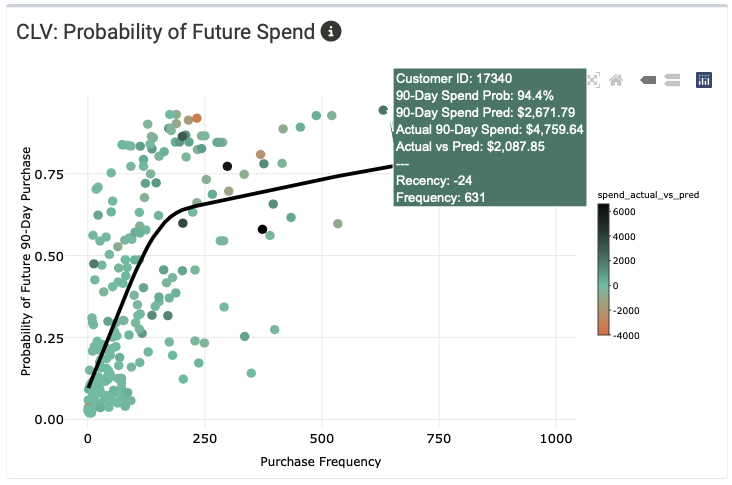
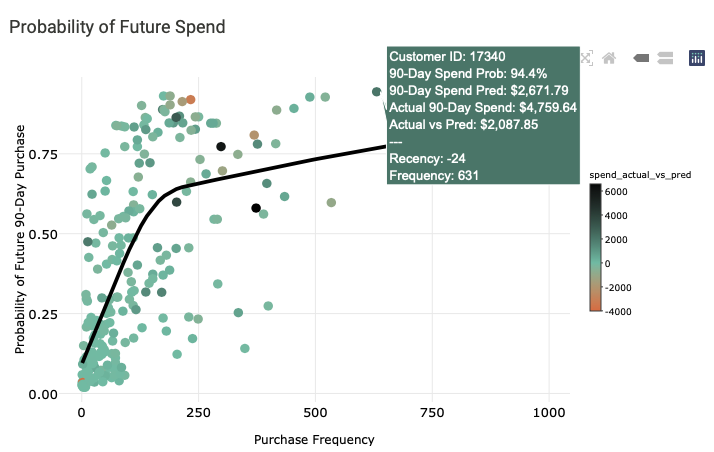
update customer pngs

diff --git a/README.md b/README.md
@@ -36,7 +36,7 @@ cohort of customers in terms of first purchase dates.
 
 ![](png/customer_red.png)
 
-Fore customer 15125 in the examples above, the model predicted a high probability 
+For customer 15125 in the examples above, the model predicted a high probability 
 of making a purchase in the next 90 days (92%). However while this customer did 
 make a purchase, the amount spent was over $3K less than what the model predicted 
 ($733 actual vs $3216 predicted). This customer will be a prime candidate to reach 
